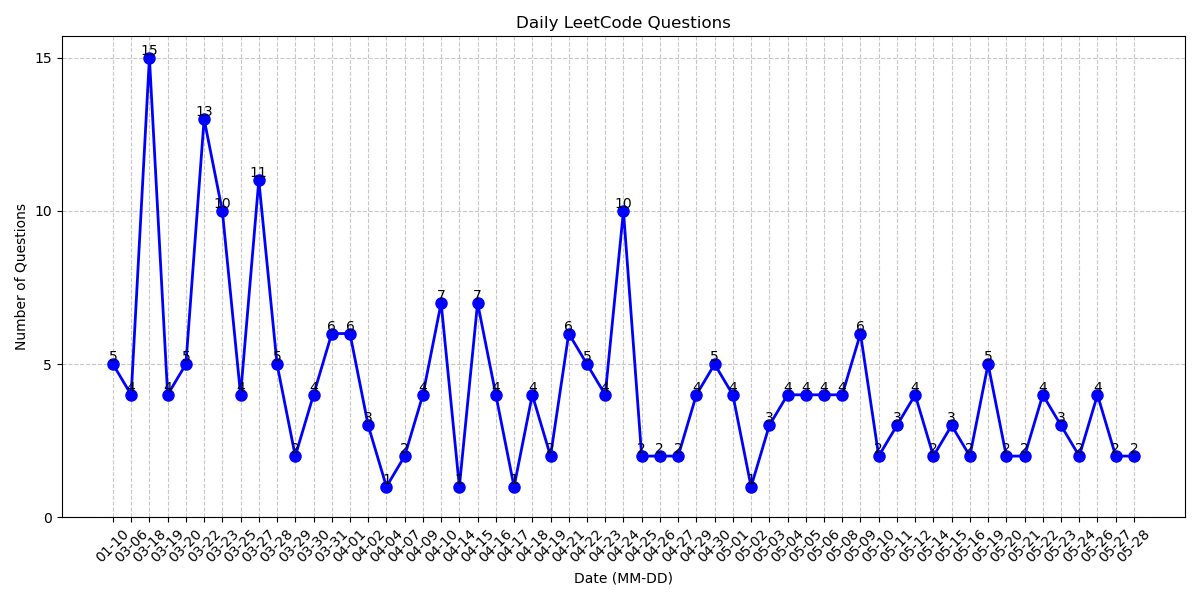
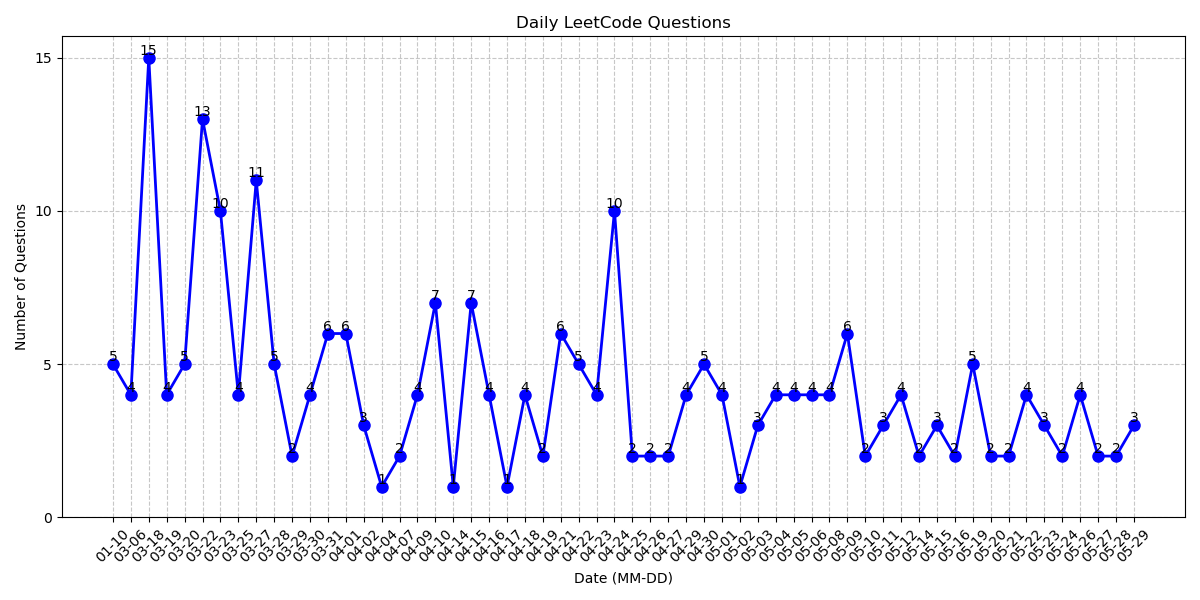
pratices BFS, tree, sliding window

diff --git a/Tree/988. Smallest String Starting From Leaf.cpp b/Tree/988. Smallest String Starting From Leaf.cpp
@@ -1,0 +1,81 @@
+// proficient
+/**
+ * Definition for a binary tree node.
+ * struct TreeNode {
+ *     int val;
+ *     TreeNode *left;
+ *     TreeNode *right;
+ *     TreeNode() : val(0), left(nullptr), right(nullptr) {}
+ *     TreeNode(int x) : val(x), left(nullptr), right(nullptr) {}
+ *     TreeNode(int x, TreeNode *left, TreeNode *right) : val(x), left(left),
+ * right(right) {}
+ * };
+ */
+/*
+    1. DFS, 每次走到leaf就跟目前的string比較, 直到找到最小, time O(N), space
+   O(H) H: tree height
+
+    2. BFS + Min Heap（優先隊列）
+    使用最小堆（min-heap）維護每個 leaf 到 root 的路徑字串（記得 reverse）。
+    第一個 pop 出來的 leaf string 就是答案。
+    ⏱ Time Complexity:
+
+    每個節點最多訪問一次，每個字串 reverse 為 O(H)。
+    優先隊列插入最多 N 條路徑，每次操作 log N。
+    總體時間複雜度：O(N log N)（比 DFS 稍慢）
+
+*/
+class Solution {
+  public:
+	string smallest_str = "";
+	string smallestFromLeaf(TreeNode *root) {
+		dfs(root, "");
+		// for(int i = 0; i < smallest_str.length(); ++i)
+		//     smallest_str[i] += 'a';
+		return smallest_str;
+	}
+	void dfs(TreeNode *node, string cur_str) {
+		// leaf
+		if (node)
+			cur_str += (node->val + 'a');
+		if (!node->left && !node->right) {
+			reverse(cur_str.begin(), cur_str.end()); // from end to start
+			if (smallest_str.length() == 0)
+				smallest_str = cur_str;
+
+			for (int i = 0; i < cur_str.length(); ++i) {
+				if (i >= smallest_str.length() || cur_str[i] > smallest_str[i])
+					return; // lexicographically larger
+				else if (cur_str[i] < smallest_str[i])
+					break;
+				else
+					continue;
+			}
+			smallest_str = cur_str; // lexicographically smaller 或是 prefix
+			return;
+		}
+		if (node->left)
+			dfs(node->left, cur_str);
+		if (node->right)
+			dfs(node->right, cur_str);
+	}
+};
+
+string smallestFromLeaf(TreeNode *root) {
+	priority_queue<string, vector<string>, greater<string>> pq;
+	queue<pair<TreeNode *, string>> q;
+	q.push({root, ""});
+	while (!q.empty()) {
+		auto [node, cur_str] = q.front();
+		q.pop();
+		string path = (char)(node->val + 'a') + cur_str;
+		if (!node->left && !node->right) {
+			pq.push(path); // 因為是從 leaf 開始
+		}
+		if (node->left)
+			q.push({node->left, path});
+		if (node->right)
+			q.push({node->right, path});
+	}
+	return pq.top();
+}

diff --git a/Graph/3373. Maximize the Number of Target Nodes After Connecting Trees II.cpp b/Graph/3373. Maximize the Number of Target Nodes After Connecting Trees II.cpp
@@ -1,0 +1,67 @@
+/*
+    g1, g2 各自BFS, g1 找even, g2 找odd(因為connect g1 會+1變even )
+    time : O(n^2 + m^2) TLE
+
+    sol 2. 只需要BFS 一次就好, 我們只關心even/odd, 那就只要一個node 0 BFS,
+   然後其他node 根據跟0的距離是even/odd判斷even/odd數量即可, path = even, node i
+   = node 0 path = odd,  node i = node 0 even/odd 反過來
+
+    time: O(n + m)
+*/
+class Solution {
+  public:
+	vector<int> node_level; // 用來記錄 graph 1 每個node level
+	pair<int, int> countTargets(vector<vector<int>> &g, int type) {
+		vector<bool> visit(g.size(), false);
+		queue<int> q;
+		q.push(0);
+		int level = 0;
+		int num_even = 0;
+		int num_odd = 0;
+		while (!q.empty()) {
+			int size = q.size();
+			level % 2 == 0 ? num_even += size : num_odd += size;
+			for (int i = 0; i < size; ++i) {
+				int node = q.front();
+				q.pop();
+				visit[node] = true;
+				if (type == 1)
+					node_level[node] = level;
+				for (int &nei : g[node]) {
+					if (!visit[nei])
+						q.push(nei);
+				}
+			}
+			++level;
+		}
+		return {num_even, num_odd};
+	}
+	vector<int> maxTargetNodes(vector<vector<int>> &edges1,
+	                           vector<vector<int>> &edges2) {
+		int n = edges1.size();
+		int m = edges2.size();
+		vector<vector<int>> g1(n + 1);
+		vector<vector<int>> g2(m + 1);
+		node_level.resize(n + 1, 0);
+		vector<int> ans(n + 1);
+		for (auto &e : edges1) {
+			g1[e[0]].push_back(e[1]);
+			g1[e[1]].push_back(e[0]);
+		}
+
+		for (auto &e : edges2) {
+			g2[e[0]].push_back(e[1]);
+			g2[e[1]].push_back(e[0]);
+		}
+
+		auto [even_1, odd_1] = countTargets(g1, 1);
+		auto [even_2, odd_2] = countTargets(g2, 2);
+		int max_odd_2 = max(even_2, odd_2); // find max odd from graph 2
+
+		for (int i = 0; i < ans.size(); ++i) {
+			int target_node = node_level[i] % 2 == 0 ? even_1 : odd_1;
+			ans[i] = max_odd_2 + target_node;
+		}
+		return ans;
+	}
+};

diff --git a/SlidingWindow/2958. Length of Longest Subarray With at Most K Frequency.cpp b/SlidingWindow/2958. Length of Longest Subarray With at Most K Frequency.cpp
@@ -1,0 +1,30 @@
+// proficient
+/*
+    hashtable紀錄每個num出現次數
+    right expand 直到有table[num[i]] > k, 紀錄目前最大subarray length
+    left expand 直到重新滿足條件
+    重複以上動作
+
+    time O(n), space O(n)
+*/
+class Solution {
+  public:
+	int maxSubarrayLength(vector<int> &nums, int k) {
+		unordered_map<int, int> num_count;
+		int l = 0;
+		int r = 0;
+		int max_subarr = 0;
+		for (r = 0; r < nums.size(); ++r) {
+			if (++num_count[nums[r]] > k) {
+				max_subarr = max(max_subarr, r - l);
+				while (nums[l] != nums[r]) {
+					--num_count[nums[l++]];
+				}
+				// 刪掉最後nums[l] = nums[r] 讓subarray合法
+				--num_count[nums[l++]];
+			}
+		}
+		max_subarr = max(max_subarr, r - l); // 最後再比較一次
+		return max_subarr;
+	}
+};

diff --git a/BasicC++/Inherence.cpp b/BasicC++/Inherence.cpp
@@ -1,0 +1,19 @@
+#include <iostream>
+using namespace std;
+
+class A {
+  public:
+	A() { cout << "Construct A" << endl; }
+	~A() { cout << "Destruct A" << endl; }
+
+  private:
+};
+class B : public A {
+  public:
+	B() { cout << "Construct B" << endl; }
+	~B() { cout << "Destruct B" << endl; }
+
+  private:
+};
+
+int main() { B b; }

diff --git a/README.md b/README.md
@@ -1,8 +1,8 @@
 # LeetCode Problems
 
 ❌  can't resolve without solution: 26
-📝  can't resolve without hint: 168
-✅  resolve by self: 32
+📝  can't resolve without hint: 169
+✅  resolve by self: 34
 ## Tree
 - ❌ 105. Construct Binary Tree from Preorder and Inorder Traversal
 - 📝 PrefixTree
@@ -23,6 +23,7 @@
 - 📝 94.inorderTraversal
 - ✅ 124. Binary Tree Maximum Path Sum
 - ✅ 1325. Delete Leaves With a Given Value
+- ✅ 988. Smallest String Starting From Leaf
 - ✅ 297. Serialize and Deserialize Binary Tree
 - ✅ insertBinaryTree
 - ✅ 1448.CountGoodNodesInBinaryTree
@@ -79,6 +80,7 @@
 - 📝 743.NetworkDelayTime
 - 📝 3372. Maximize the Number of Target Nodes After Connecting Trees I
 - 📝 210.CourseSchedule2
+- 📝 3373. Maximize the Number of Target Nodes After Connecting Trees II
 - 📝 maxLand
 - 📝 3341. Find Minimum Time to Reach Last Room I
 - 📝 rottingFruit
@@ -109,6 +111,7 @@
 - 📝 643.MaximumAverageSubarray
 - 📝 BuySellStock
 - ✅ 209. Minimum Size Subarray Sum
+- ✅ 2958. Length of Longest Subarray With at Most K Frequency
 
 ## Array&Hashing
 - ❌ LongestConsecutiveSeq
@@ -260,7 +263,7 @@
 - 📝 2574. Left and Right Sum Differences
 
 ## Statistics
-Current total questions: 225
+Current total questions: 228
 
 <img src="chart.png" alt="questions bar chart" width="500">
 
